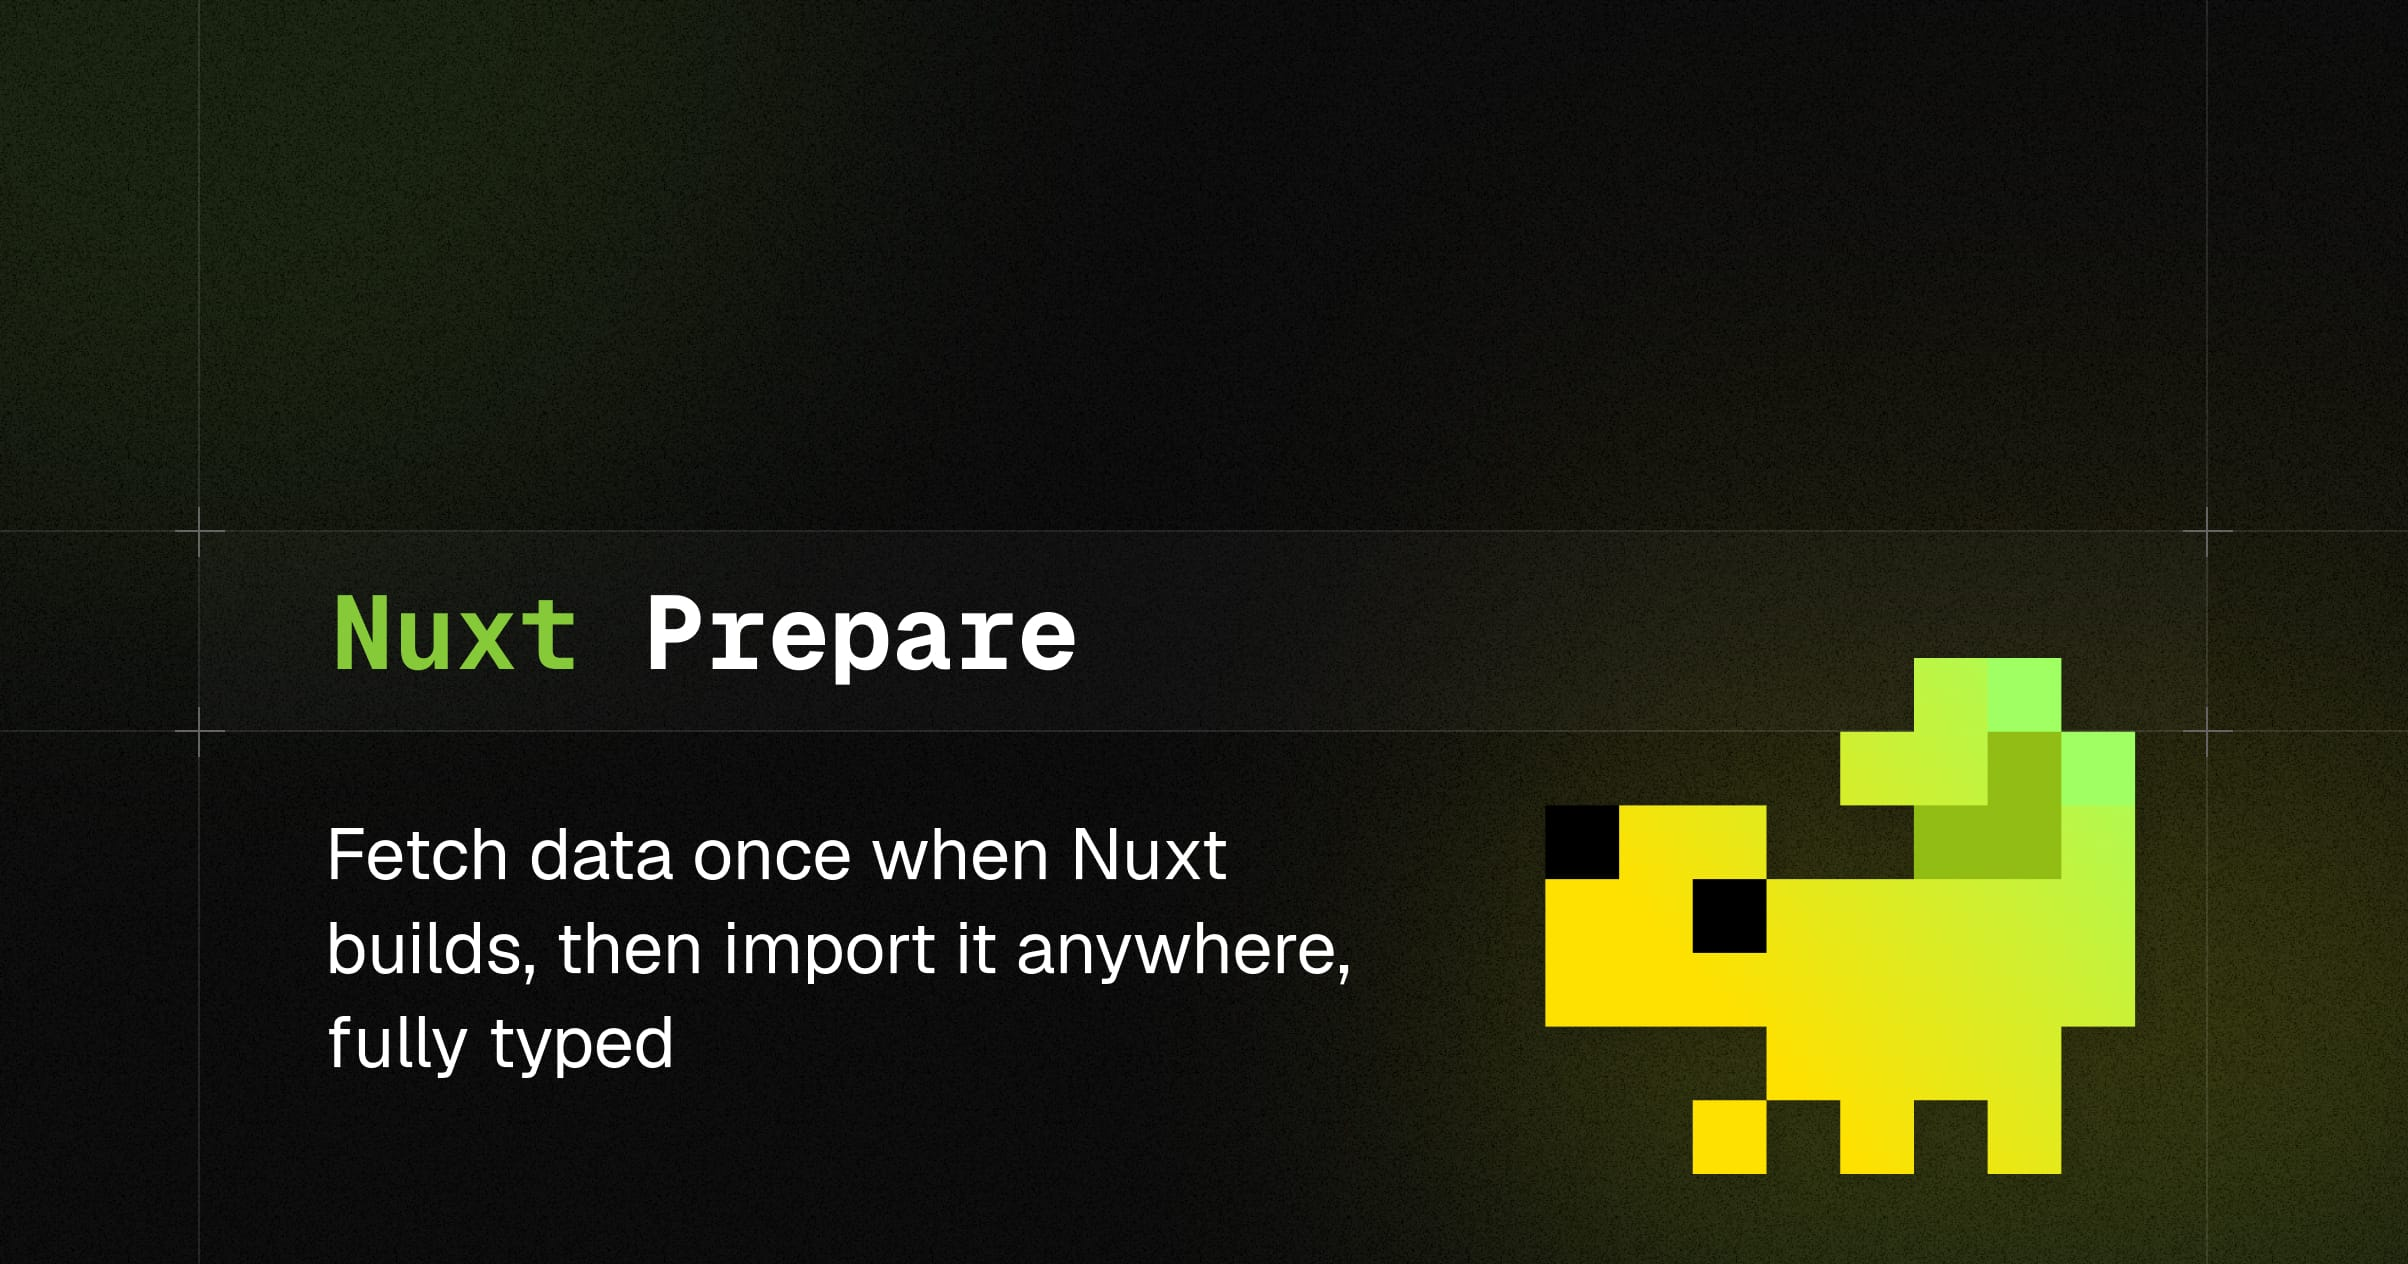
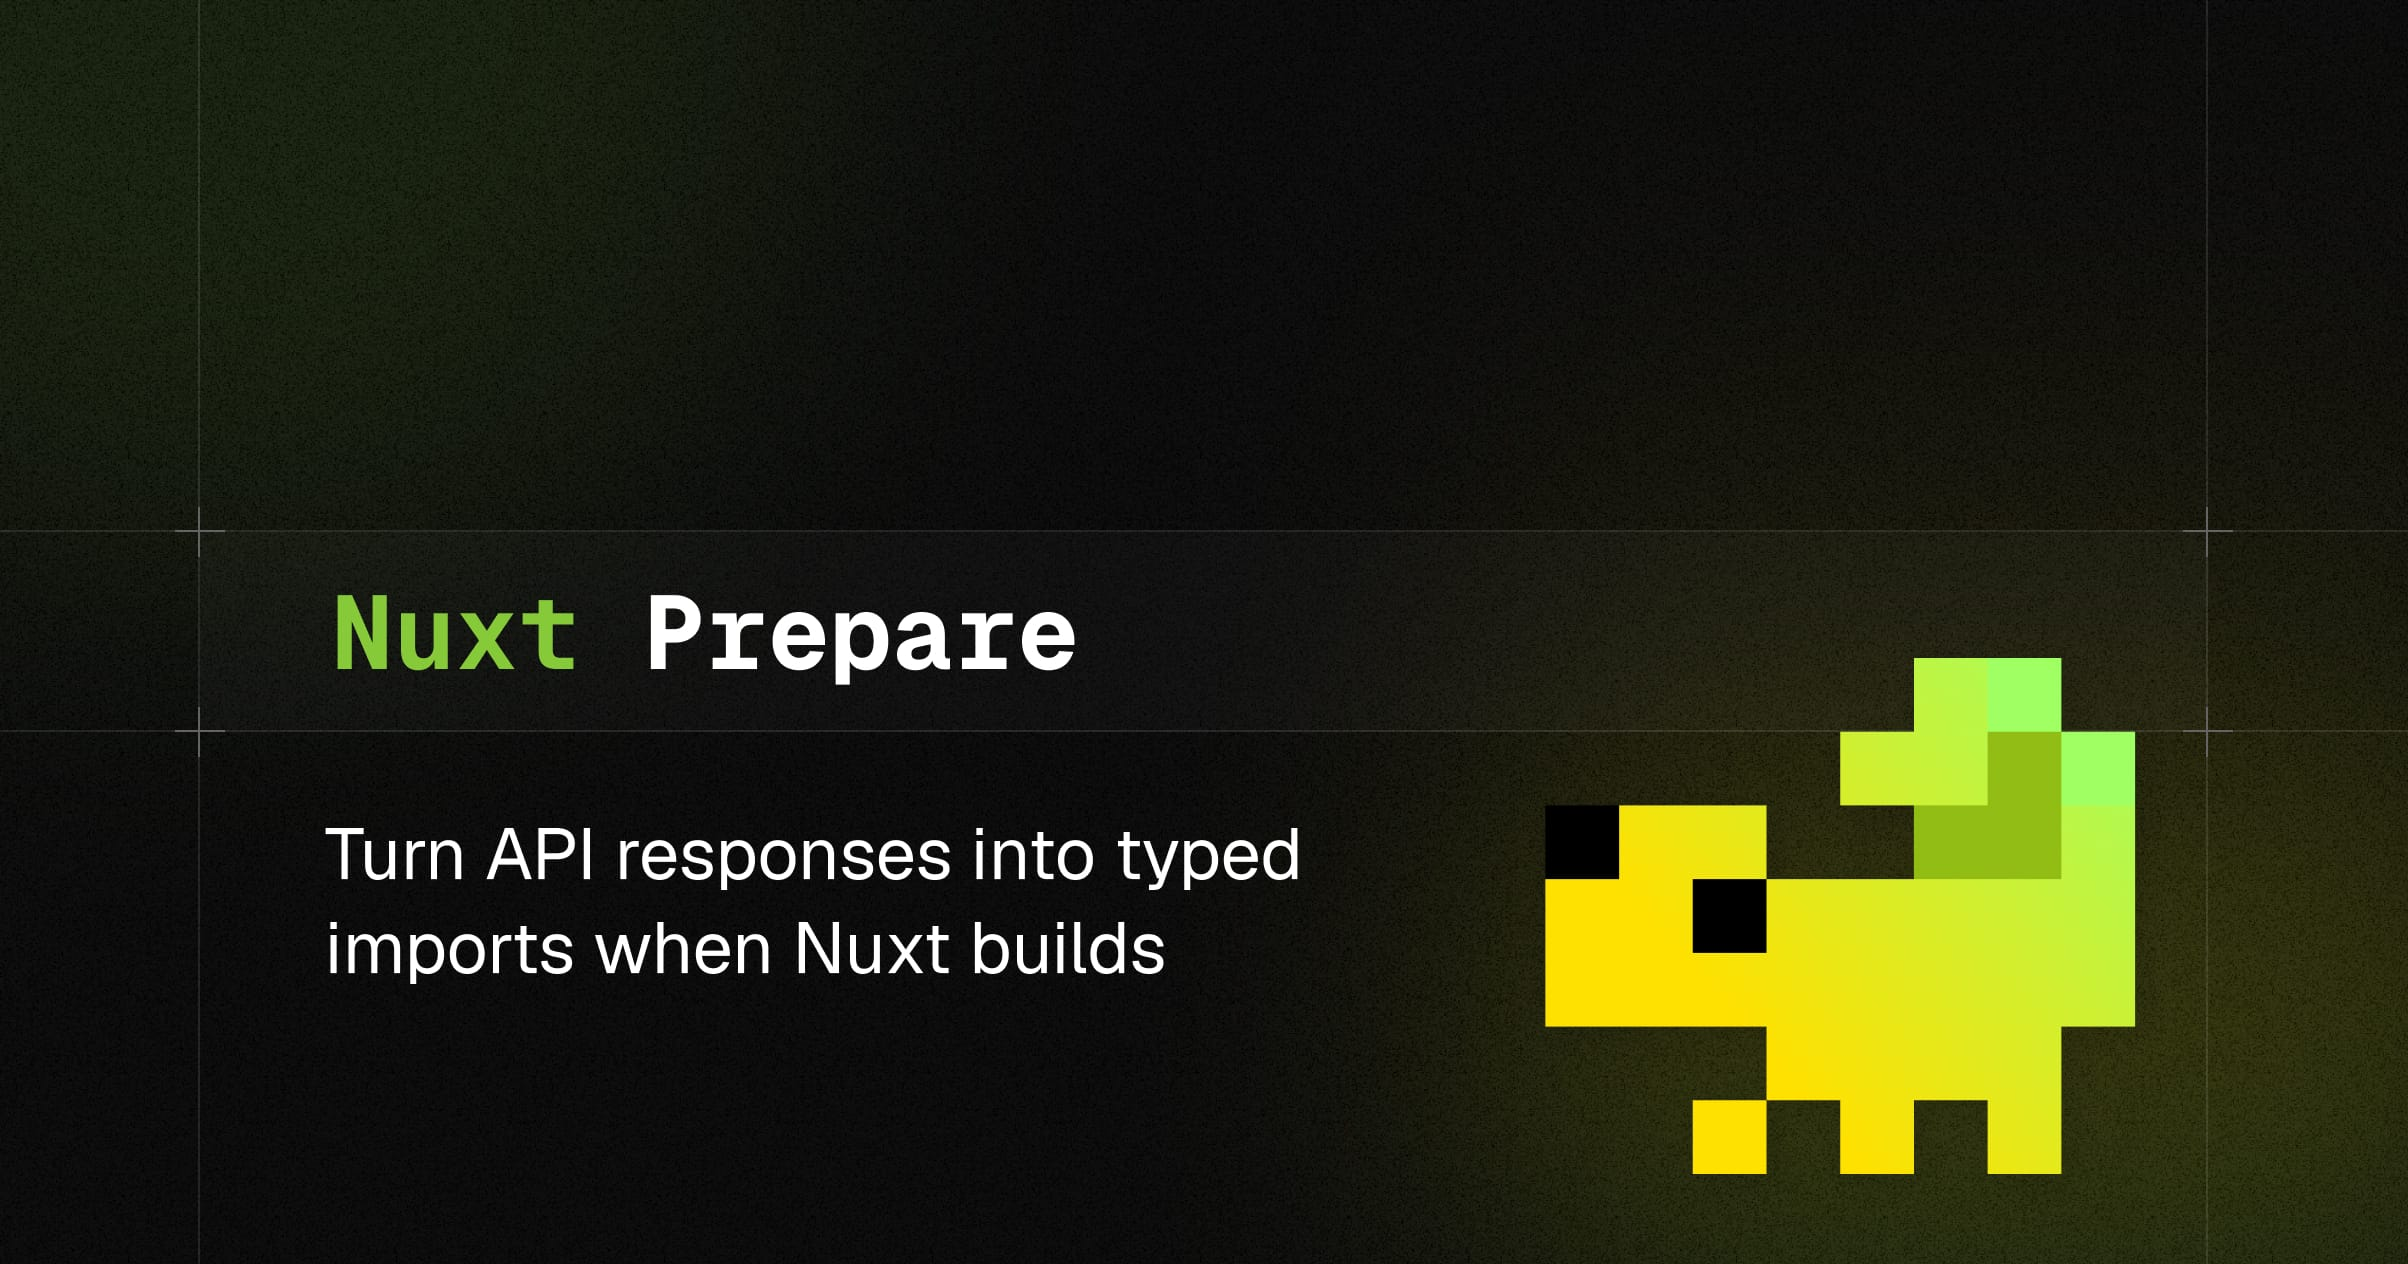
docs: pitch the module as API responses turned into typed imports

Changed region(s): [[0.1246, 0.6479, 0.5606, 0.7097], [0.1246, 0.7405, 0.5606, 0.7714], [0.1246, 0.8022, 0.2803, 0.8639]]

diff --git a/README.md b/README.md
@@ -2,7 +2,7 @@
 
 # Nuxt Prepare
 
-Fetch data once when [Nuxt](https://nuxt.com) builds, then import it anywhere, fully typed.
+Turn API responses into typed imports when [Nuxt](https://nuxt.com) builds.
 
 - [✨ &nbsp;Release Notes](https://github.com/johannschopplich/nuxt-prepare/releases)
 - [📖 &nbsp;Read the documentation](https://nuxt-prepare.byjohann.dev)

diff --git a/docs/index.md b/docs/index.md
@@ -3,7 +3,7 @@ layout: home
 hero:
   name: Nuxt Prepare
   text: Fetch Once, Import Anywhere
-  tagline: Fetch data once when Nuxt builds, then import it anywhere, fully typed.
+  tagline: Turn API responses into typed imports when Nuxt builds.
   image:
     src: /logo-shadow.svg
     alt: Nuxt Prepare Logo
